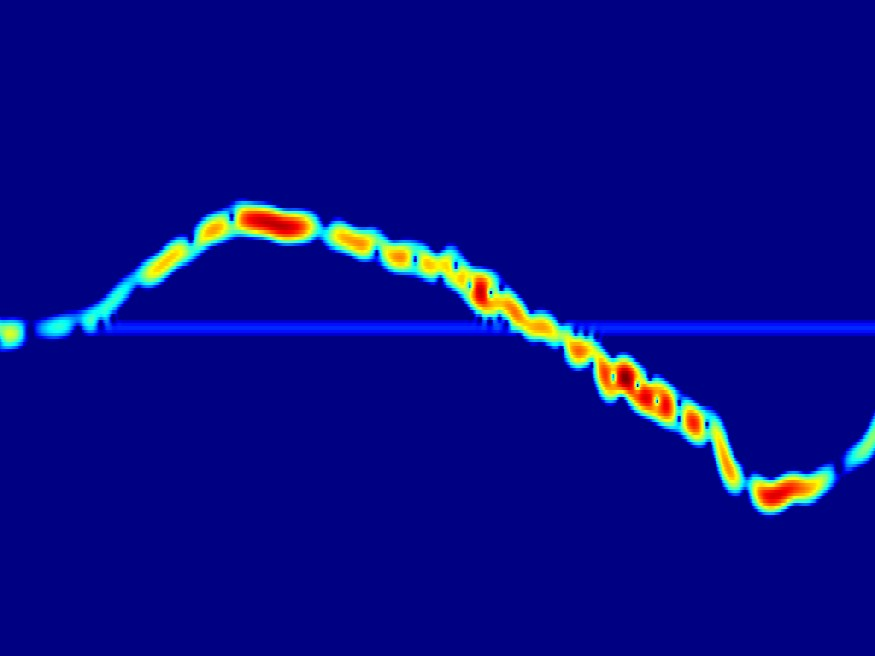
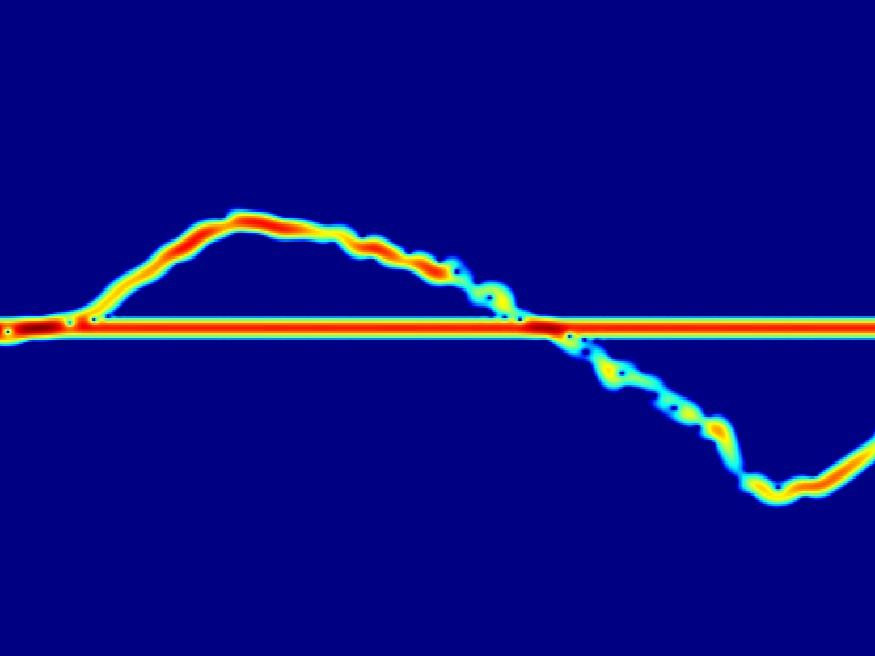
update

Changed region(s): [[0.0, 0.3049, 1.0, 0.7927]]

diff --git a/simuSpectrogram.m b/simuSpectrogram.m
@@ -182,19 +182,27 @@ for nf = 1:NframesNew
         a = norm(aspect)/4;
         b = norm(aspect)/4;
         c = norm(aspect)/2;
+        radius = norm(aspect)/4;
+        len = norm(aspect);
         % Calculate theta
         Cos_Theta_i = dot(Tx_pos-mid,aspect)/norm(mid-Tx_pos)/norm(aspect);
         Theta_i = acos(Cos_Theta_i);
         Cos_Theta_s = dot(Rx_pos-mid,aspect)/norm(mid-Rx_pos)/norm(aspect);
         Theta_s = acos(Cos_Theta_s);
-        % Calculate phi
-        Sin_Phi_i = (Tx_pos(2) - mid(2))/sqrt((Tx_pos(1)-mid(1))^2+(Tx_pos(2)-mid(2))^2);
-        Phi_i = asin(Sin_Phi_i);
-        Sin_Phi_s = (Rx_pos(2) - mid(2))/sqrt((Rx_pos(1)-mid(1))^2+(Rx_pos(2)-mid(2))^2);
-        Phi_s = asin(Sin_Phi_s);
+%         % Calculate phi
+%         Sin_Phi_i = (Tx_pos(2) - mid(2))/sqrt((Tx_pos(1)-mid(1))^2+(Tx_pos(2)-mid(2))^2);
+%         Phi_i = asin(Sin_Phi_i);
+%         Sin_Phi_s = (Rx_pos(2) - mid(2))/sqrt((Rx_pos(1)-mid(1))^2+(Rx_pos(2)-mid(2))^2);
+%         Phi_s = asin(Sin_Phi_s);
+        % Calculate bistatic phi
+        normal_vector = aspect / norm(aspect);
+        Tx_projection = Tx_pos - dot(Tx_pos - mid, normal_vector) * normal_vector;
+        Rx_projection = Rx_pos - dot(Rx_pos - mid, normal_vector) * normal_vector;
+        bistatic_angle_phi = acos(dot(Tx_projection - mid, Rx_projection - mid) / (norm(Tx_projection - mid) * norm(Rx_projection - mid)));
         % rcsellipsoid/R^2 is based on bistatic radar range equation
-        Amp = sqrt(rcsellipsoid(a,b,c,Phi_i,Theta_i,Phi_s,Theta_s))/R_Rx/R_Tx;
-        Phase = exp(-1i*4*pi*(R_Tx+R_Rx)/lambda);
+%         Amp = sqrt(rcsellipsoid(a,b,c,Phi_i,Theta_i,Phi_s,Theta_s))/R_Rx/R_Tx;
+        Amp = brcsellipsoid_circle(len,radius,bistatic_angle_phi,Theta_i,Theta_s)/R_Rx/R_Tx;
+        Phase = exp(-1i*2*pi*(R_Tx+R_Rx)/lambda);
         rcs_joint = Amp*Phase;
         if isnan(rcs_joint)
             rcs_joint = 0;

diff --git a/test.m b/test.m
@@ -1,0 +1,43 @@
+% https://zhuanlan.zhihu.com/p/422696920
+clc; clear; close all;
+Tx_pos = [5 5 5];
+Rx_pos = [-5 5 5];
+joint1 = [1 2 1];
+joint2 = [2 3 4];
+mid = 0.5*(joint1 + joint2);
+aspect = joint1 - joint2;
+% 计算经过mid的垂直于aspect的平面P
+% 计算平面P的法向量
+normal_vector = aspect / norm(aspect);
+
+% 计算Tx_pos与Rx_pos在上述平面P的投影坐标
+Tx_projection = Tx_pos - dot(Tx_pos - mid, normal_vector) * normal_vector;
+Rx_projection = Rx_pos - dot(Rx_pos - mid, normal_vector) * normal_vector;
+
+% 计算向量Tx_pos - mid 与向量Rx_pos - mid的夹角在上述平面P上投影的弧度大小
+angle_rad = acos(dot(Tx_projection - mid, Rx_projection - mid) / (norm(Tx_projection - mid) * norm(Rx_projection - mid)));
+
+dot(Tx_projection-mid,normal_vector)
+dot(normal_vector,Tx_projection)-dot(normal_vector,mid)
+
+%%
+scatter3(Tx_pos(1), Tx_pos(2), Tx_pos(3), 100, 'r', 'filled');
+hold on;
+scatter3(Rx_pos(1), Rx_pos(2), Rx_pos(3), 100, 'b', 'filled');
+scatter3(mid(1), mid(2), mid(3), 100, 'g', 'filled');
+[x_plane, y_plane] = meshgrid(-10:10, -10:10);
+% Ax + By + Cz + D = 0;
+A = normal_vector(1); B = normal_vector(2); C = normal_vector(3);
+D = - dot(normal_vector,mid);
+z_plane = (-A * x_plane - B * y_plane - D) / C;
+surf(x_plane, y_plane, z_plane, 'FaceAlpha', 0.3, 'FaceColor', 'c', 'EdgeColor', 'none');
+scatter3(Tx_projection(1), Tx_projection(2), Tx_projection(3), 100, 'm', 'filled');
+scatter3(Rx_projection(1), Rx_projection(2), Rx_projection(3), 100, 'y', 'filled');
+xlabel('X');
+ylabel('Y');
+zlabel('Z');
+legend('Tx\_pos', 'Rx\_pos', 'mid', 'Plane P', 'Tx\_projection', 'Rx\_projection');
+text(mid(1), mid(2), mid(3), ['\angle = ', num2str(angle_rad, '%.2f')], 'Color', 'k', 'FontSize', 12);
+grid on;
+axis equal;
+hold off;

diff --git a/testHand_bistatic.m b/testHand_bistatic.m
@@ -7,7 +7,7 @@ fc = 60.48e9;
 fs = 2000;
 % AWGN_mean = 0.005;
 % AWGN_var = 0.001;
-AWGN_mean = 0.05;
+AWGN_mean = 0.005;
 AWGN_var = 0.0001;
 thres_A_TRD = -30;
 drawScenario = true;
@@ -32,12 +32,12 @@ output_gif_path = sprintf('./output2/%s.gif',name);
 % simuSpectrogram_v2(Tx_pos,Rx_pos,fc,fs,AWGN_mean,AWGN_var,thres_A_TRD, ...
 %     drawScenario,rcsRendering,input_mat_path,using_camera_coordinate, ...
 %     connections,output_jpg_path,output_gif_path,true);
-% simuSpectrogram(Tx_pos,Rx_pos,fc,fs,AWGN_mean,AWGN_var,thres_A_TRD, ...
-%     drawScenario,rcsRendering,input_mat_path,using_camera_coordinate, ...
-%     connections,output_jpg_path,output_gif_path,true);
-simuSpectrogram_v4(Tx_pos,Rx_pos,fc,fs,AWGN_mean,AWGN_var,thres_A_TRD, ...
+simuSpectrogram(Tx_pos,Rx_pos,fc,fs,AWGN_mean,AWGN_var,thres_A_TRD, ...
     drawScenario,rcsRendering,input_mat_path,using_camera_coordinate, ...
-    connections,output_jpg_path,output_gif_path,false);
+    connections,output_jpg_path,output_gif_path,true);
+% simuSpectrogram_v4(Tx_pos,Rx_pos,fc,fs,AWGN_mean,AWGN_var,thres_A_TRD, ...
+%     drawScenario,rcsRendering,input_mat_path,using_camera_coordinate, ...
+%     connections,output_jpg_path,output_gif_path,false);
 
 % close all;
 % name = '2';

diff --git a/brcsellipsoid_circle.m b/brcsellipsoid_circle.m
@@ -1,0 +1,10 @@
+function rcs = brcsellipsoid_circle(len,radius,bistatic_angle_phi,theta_i,theta_s)
+% bistatic rcs for an ellipsoid with circular section.
+a = radius;
+b = radius;
+c = len/2;
+rcs = (4*pi*a^2*b^2*c^2)*((1+cos(theta_i)*cos(theta_s))*cos(bistatic_angle_phi)+sin(theta_i)*sin(theta_s))^2/ ...
+    (a^2*(sin(theta_i)^2+sin(theta_s)^2+2*sin(theta_i)*sin(theta_s)*cos(bistatic_angle_phi))+...
+    c^2*(cos(theta_i)+cos(theta_s))^2 ...
+    )^2;
+end
